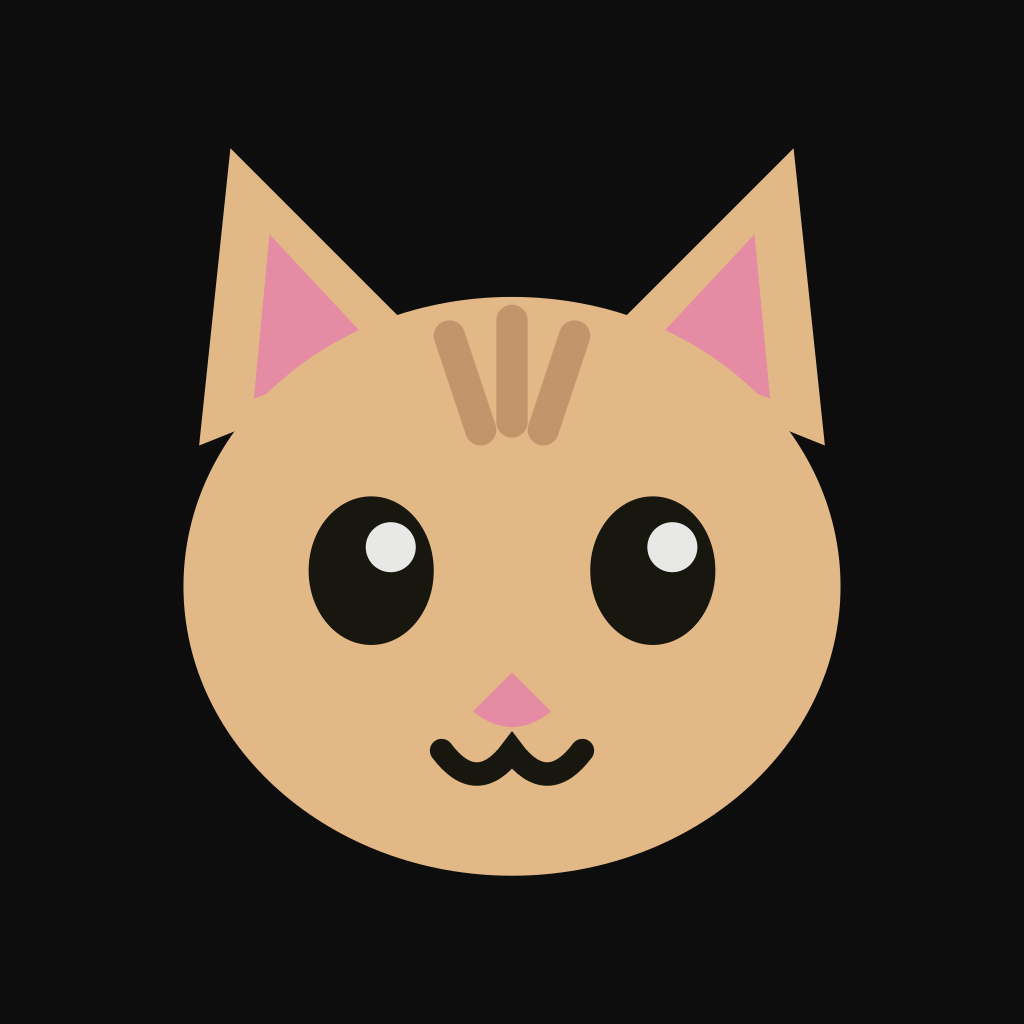
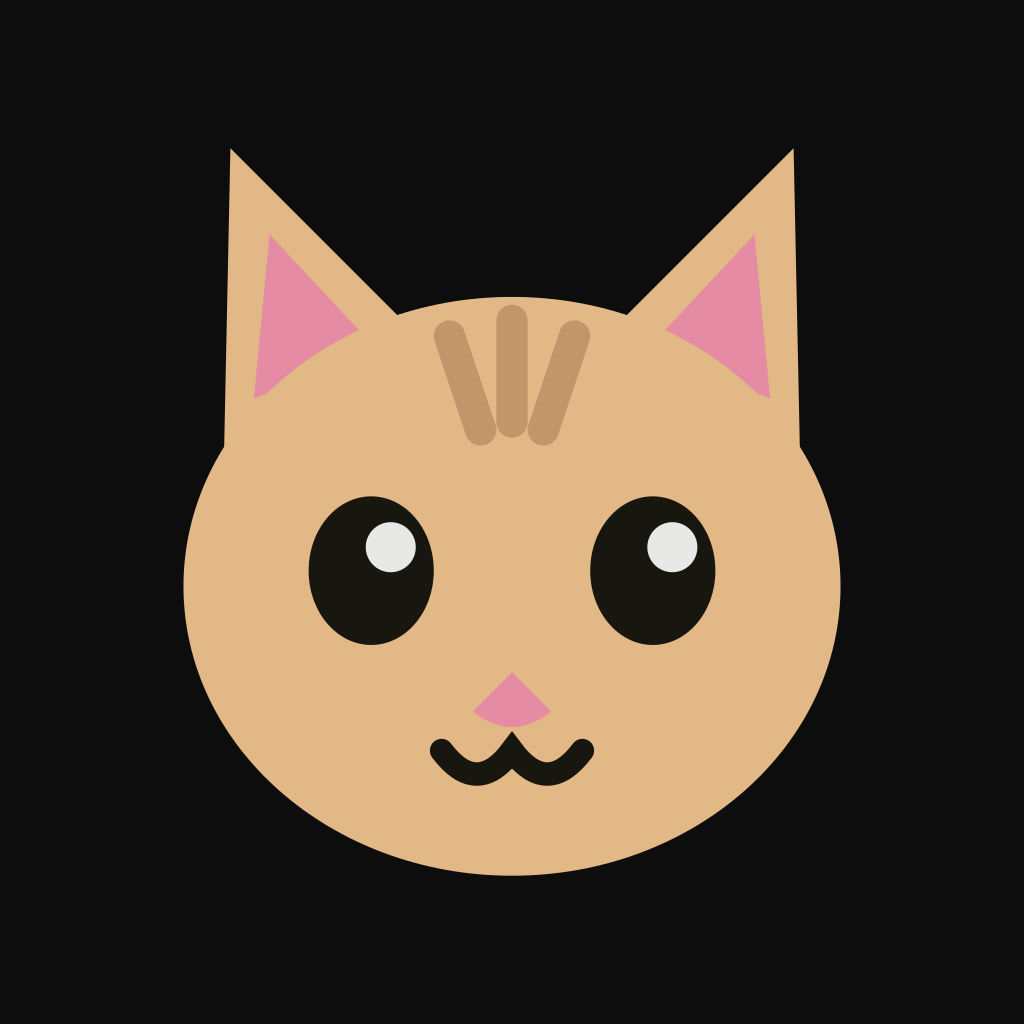
Add screenshots, Ellie mood strip, and fix ear geometry
Device screenshots (Today, Insights, limit interstitial, Limits) from
the first working APK. Added to README with an Ellie mood reference strip
rendered from the same shipped SVG vectors.

Ear fix: the outer base of each ear was placed at y=56, which sits above
the head ellipse's rim at that x, leaving a visible gap. Moved to y=66 so
both ears are properly grounded — fixed in the logo SVGs, the foreground/
monochrome adaptive layers, the React component, and the docs renderer.

Changed region(s): [[0.75, 0.1875, 0.8125, 0.4375], [0.1875, 0.1875, 0.25, 0.4375]]

diff --git a/src/components/ellie/ellie-face.tsx b/src/components/ellie/ellie-face.tsx
@@ -38,11 +38,11 @@ export const EllieFace = memo(function EllieFace({ mood, size = 150, blink = tru
       />
 
       <G rotation={-ear} origin="44, 52">
-        <Polygon points="30,56 34,20 60,44" fill={Ellie.fur} />
+        <Polygon points="33,66 34,20 60,44" fill={Ellie.fur} />
         <Polygon points="36,50 38,30 52,44" fill={Ellie.pink} />
       </G>
       <G rotation={ear} origin="96, 52">
-        <Polygon points="110,56 106,20 80,44" fill={Ellie.fur} />
+        <Polygon points="107,66 106,20 80,44" fill={Ellie.fur} />
         <Polygon points="104,50 102,30 88,44" fill={Ellie.pink} />
       </G>
 
@@ -186,8 +186,8 @@ function useBlink(enabled: boolean): boolean {
 export function EllieMark({ size = 28 }: { size?: number }) {
   return (
     <Svg width={size} height={size} viewBox="0 0 140 140">
-      <Polygon points="30,56 34,20 60,44" fill={Ellie.fur} />
-      <Polygon points="110,56 106,20 80,44" fill={Ellie.fur} />
+      <Polygon points="33,66 34,20 60,44" fill={Ellie.fur} />
+      <Polygon points="107,66 106,20 80,44" fill={Ellie.fur} />
       <Ellipse cx="70" cy="74" rx="42" ry="37" fill={Ellie.fur} />
       <Ellipse cx="52" cy="71" rx="7" ry="8" fill={Ellie.eye} />
       <Ellipse cx="88" cy="71" rx="7" ry="8" fill={Ellie.eye} />

diff --git a/README.md b/README.md
@@ -13,6 +13,24 @@ sending your data anywhere.
 
 Android only. See [Why not iOS](#why-not-ios).
 
+
+## Screenshots
+
+<p align="center">
+  <img src="docs/images/screen-today.png" width="22%" alt="Today — Ellie in sleepy mood, 21 reels, Instagram 16 / Facebook 5"/>
+  <img src="docs/images/screen-insights.png" width="22%" alt="Insights — 7-day chart, extremes, daily totals"/>
+  <img src="docs/images/screen-limit.png" width="22%" alt="Limit reached — full-screen interstitial at 20 reels"/>
+  <img src="docs/images/screen-limits.png" width="22%" alt="Limits — ring showing 21 of 20, daily cap and per-sitting controls"/>
+</p>
+
+## Ellie's moods
+
+<p align="center">
+  <img src="docs/images/ellie-moods.png" width="90%" alt="Ellie in content, proud, watchful, worried and sleepy moods"/>
+</p>
+
+*Drawn in <code>react-native-svg</code>; not an asset file. Each expression is a different set of shapes — the same component, different values.*
+
 ---
 
 ## Status
